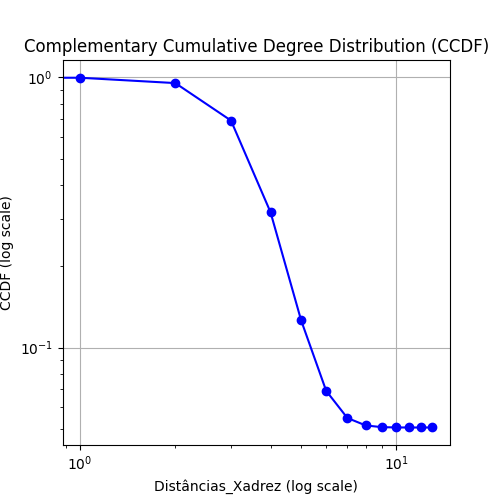
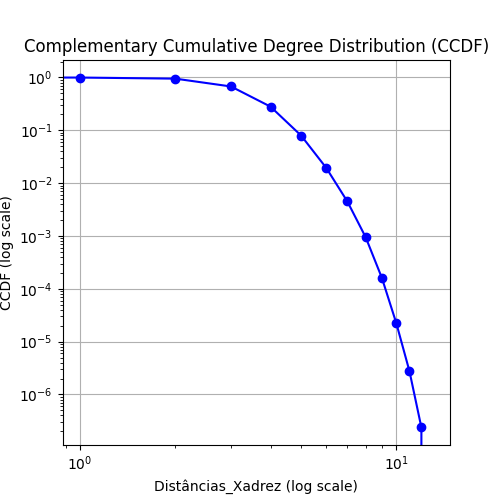
Connected Component sizes statistics function

diff --git a/functions.py b/functions.py
@@ -81,11 +81,22 @@ def getDistancesStatistics(g):
     # Removemos distâncias infinitas
     distances = np.delete(distances, np.where(distances == float('inf')))
     min_distance, max_distance = min(distances), max(distances)
-    mean_distance, median_distance = (sum(distances) / len(distances)), sorted(distances)[len(distances) // 2]
+    mean_ccsize, median_distance = (sum(distances) / len(distances)), sorted(distances)[len(distances) // 2]
     std_dev_distance = statistics.stdev(distances) # Bug
-    print(f"Distâncias (min/max/média/mediana/desvio_padrão): {min_distance, max_distance, mean_distance, median_distance, std_dev_distance}")
+    print(f"Distâncias (min/max/média/mediana/desvio_padrão): {min_distance, max_distance, mean_ccsize, median_distance, std_dev_distance}")
     plotCCDF(distances, "Distâncias_Xadrez")
-    plotGraph(g)
 
-def getCCs(g):
-    print('had')
+def getCCSizes(g):
+    CCsizes = []
+    for cluster in g.clusters():
+        CCsizes.append(len(cluster))
+    return CCsizes
+
+def getCCSizesStatistics(g):
+    ccsizes = getCCSizes(g)
+    min_ccsize, max_ccsize = min(ccsizes), max(ccsizes)
+    mean_ccsize, median_ccsize = (sum(ccsizes) / len(ccsizes)), sorted(ccsizes)[len(ccsizes) // 2]
+    std_dev_ccsize = statistics.stdev(ccsizes) # Bug
+    print(f"Tamanho Componentes Conexas (min/max/média/mediana/desvio_padrão): {min_ccsize, max_ccsize, mean_ccsize, median_ccsize, std_dev_ccsize}")
+    plotCCDF(ccsizes, "Tamanho_Componentes_Conexas_Xadrez")
+    

diff --git a/main.py b/main.py
@@ -1,11 +1,11 @@
 import statistics
 import igraph as ig
 import numpy as np
-from functions import readGraph, createGraph, getDistancesStatistics, getCCs
+from functions import readGraph, createGraph, getDegreeStatistics, getDistancesStatistics, getCCSizesStatistics
 
 num_vertices, edges, weights = readGraph()
 g = createGraph(num_vertices, edges, weights)
-
+# getDegreeStatistics(g)
 # getDistancesStatistics(g)
-getCCs(g)
+# getCCSizesStatistics(g)
 
